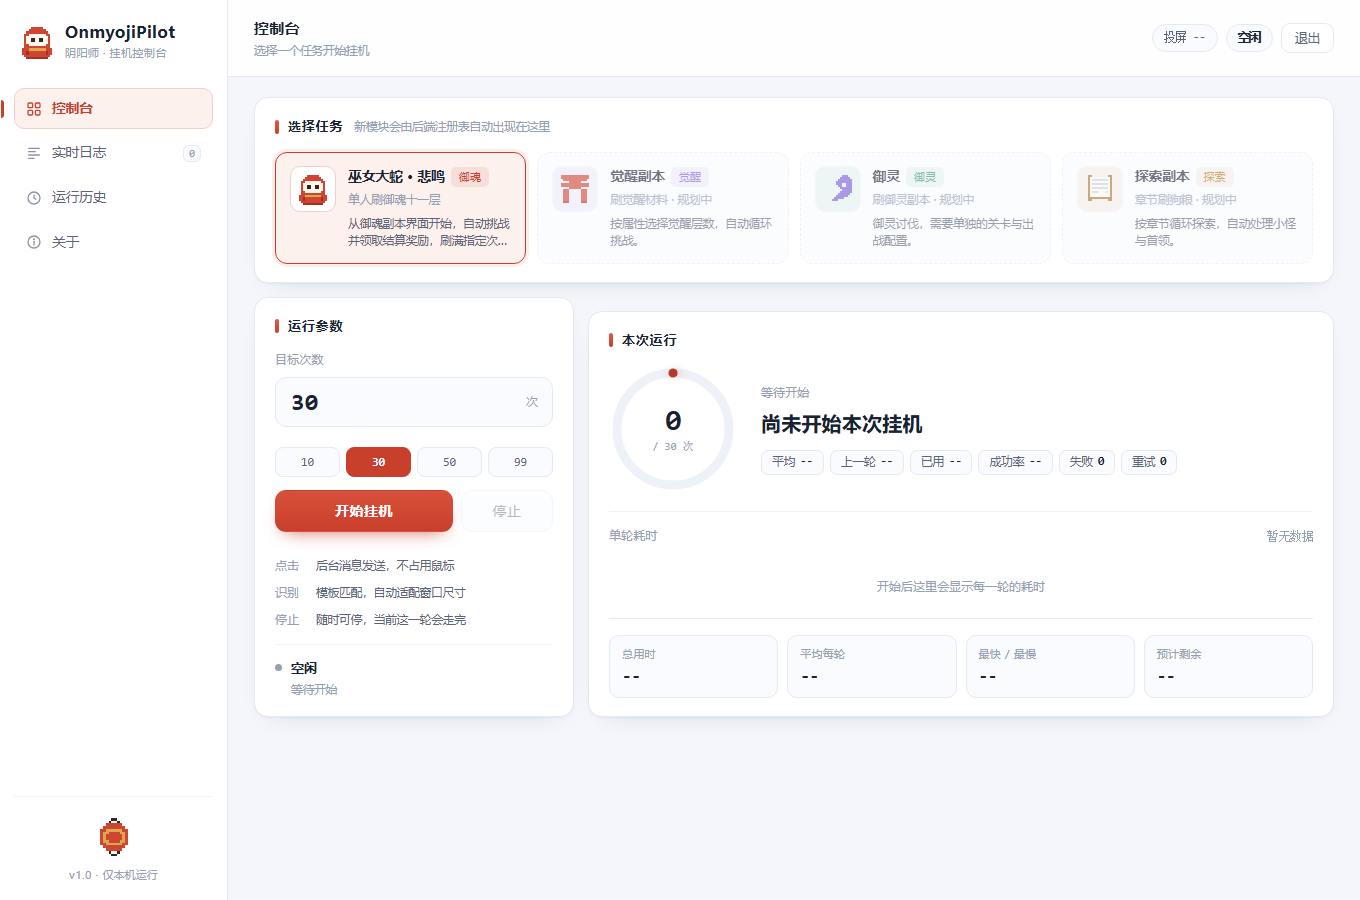
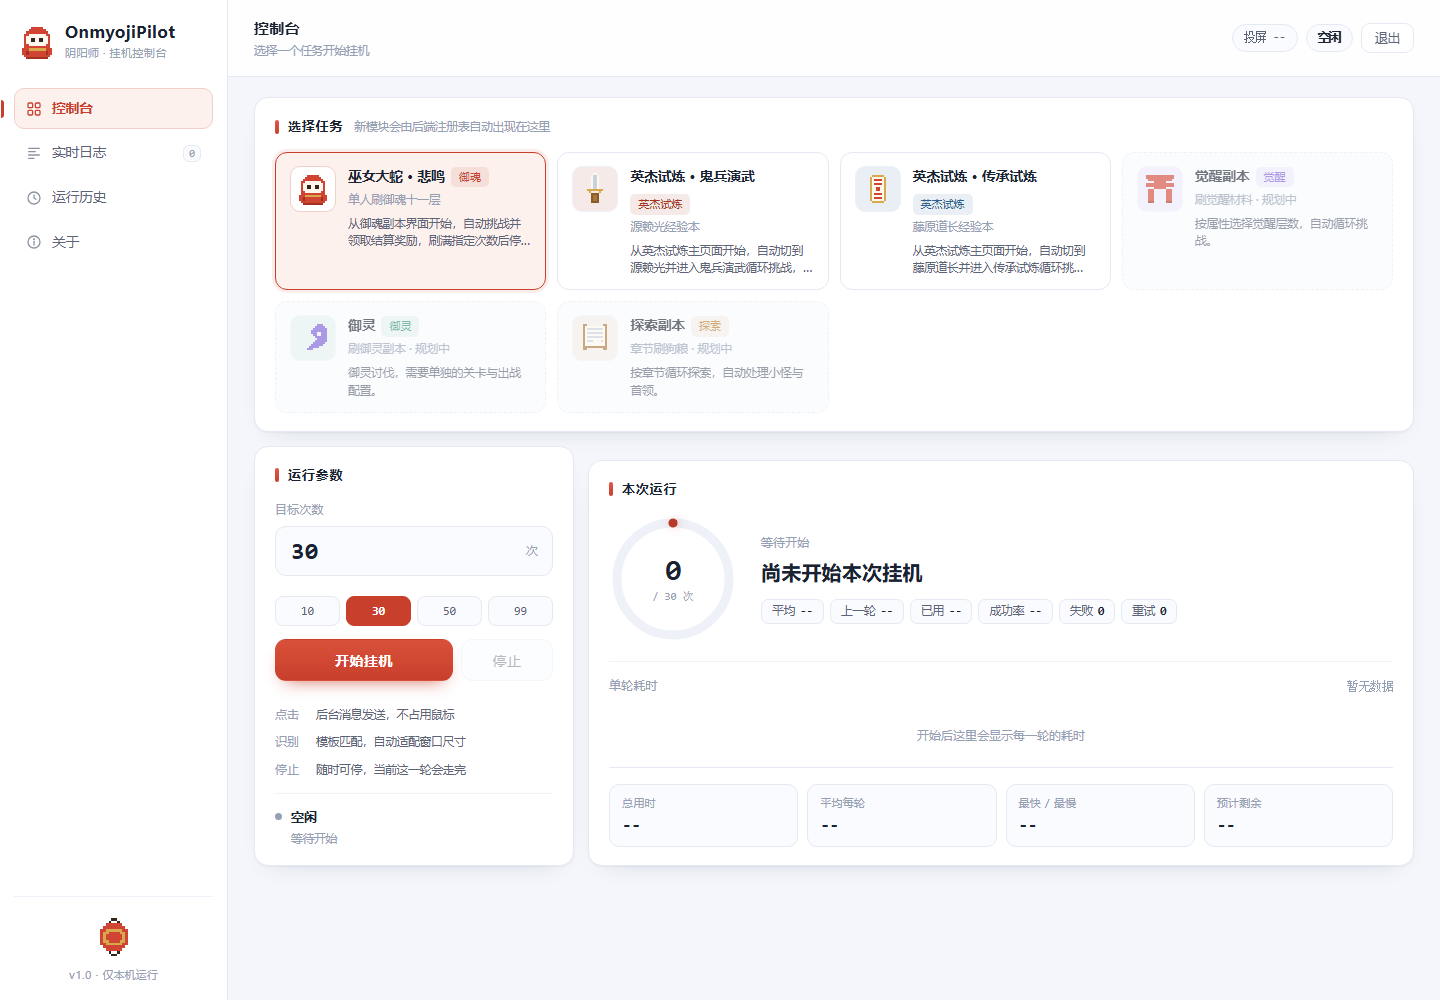
docs: README 补充传承试炼，更新控制台截图
- 已支持表：传承试炼从"规划中"改为可用，并说明会自动切英杰、开跑前查满级
- 耗时表补传承试炼约 50 秒（45.5~59.9s，5 轮），并解释为什么比鬼兵演武慢一倍：
  它是多波战斗，战斗界面左下角有 0/8 波次计数，战斗阶段本身就要 45~55 秒
- 快速开始：起始界面说明改为"在谁的英杰上都行，脚本会自己切"
- 已知限制：删掉"只支持源赖光这一侧"，补上满级拦截说明
- OAS 对照表：补 LAYERS 与 switch_hero_dict / case Layer 的对应关系
- 重新截控制台（新增传承试炼卡片，配了新的 ofuda 符咒像素图标）

diff --git a/README.md b/README.md
@@ -51,9 +51,9 @@
 | 副本 | 状态 | 说明 |
 |---|---|---|
 | 御魂 · 巫女大蛇（悲鸣） | ✅ 可用 | 单人，从御魂副本界面开始，刷满指定次数停止 |
-| 英杰试炼 · 鬼兵演武 | ✅ 可用 | 源赖光的经验本，从英杰试炼主页面自动进入 |
+| 英杰试炼 · 鬼兵演武 | ✅ 可用 | 源赖光的经验本，会自动切到源赖光并进入 |
+| 英杰试炼 · 传承试炼 | ✅ 可用 | 藤原道长的经验本，会自动切英杰，开跑前查御灵是否满级 |
 | 英杰试炼 · 兵藏秘境 | 🚧 规划中 | 需要"选祝福"逻辑，架构已就位 |
-| 英杰试炼 · 传承试炼 | 🚧 规划中 | 藤原道长的经验本，同鬼兵演武结构 |
 | 英杰试炼 · 梦虚秘境 | 🚧 规划中 | 6 种祝福按优先级选，需额外逻辑 |
 | 觉醒副本 | 🚧 规划中 | 架构已就位，缺关卡识别资产 |
 | 御灵 | 🚧 规划中 | 同上 |
@@ -66,6 +66,12 @@
 |---|---|---|
 | 御魂 · 悲鸣 | 约 27 秒（战斗 ~20s + 结算 ~7s） | — |
 | 英杰试炼 · 鬼兵演武 | 约 24 秒（23.4 ~ 25.2s） | 6 轮 |
+| 英杰试炼 · 传承试炼 | 约 50 秒（45.5 ~ 59.9s） | 5 轮 |
+
+传承试炼明显更久是因为它是**多波战斗**（战斗界面左下角有 `0/8` 波次计数），
+同样是挂一轮，它的战斗阶段就要 45~55 秒。这和脚本效率无关。
+鬼兵演武和传承试炼的「挑战」按钮实测在**同一个点位**（0.0px 偏差），
+所以两者的流程能共用一个任务类。
 
 战力更高会更快，低一些会更慢，**不要拿这些数字去衡量程序效率**。
 程序本身只负责识别和点击，不改变战斗时长。
@@ -85,14 +91,15 @@ pip install -r requirements.txt
 1. 打开 ZenLink 并连接手机，确认投屏画面正常、窗口不要最小化
 2. 游戏停在对应任务的起始界面：
    - 御魂 → **御魂副本 · 悲鸣** 界面
-   - 英杰试炼 → **英杰试炼** 主页面（脚本会自己点进鬼兵演武）
+   - 英杰试炼 → **英杰试炼** 主页面，**在谁的英杰上都行**（脚本会自己切）
 3. 双击 `start_console.bat`（或 `python server.py`），浏览器会自动打开控制台
 4. 选任务 → 填次数 → 开始挂机
 
 > 探索界面那个会漂浮的灯笼没法用后台消息点中，所以**从庭院走到探索页这一步需要手动**。
 > 停在起始界面之后，全程不用管。
 
-命令行也可以：`python main.py 30 orochi` / `python main.py 30 hero_test`
+命令行也可以：`python main.py 30 orochi` / `python main.py 30 hero_test` /
+`python main.py 30 hero_test_ccsl`
 
 ## 界面
 
@@ -185,9 +192,9 @@ OnmyojiPilot/
 │   ├── orochi/              #   御魂模块
 │   │   ├── orochi_task.py
 │   │   └── templates/       #   识别模板
-│   └── hero_test/           #   英杰试炼模块
+│   └── hero_test/           #   英杰试炼模块（鬼兵演武 / 传承试炼共用）
 │       ├── hero_test_task.py
-│       ├── task_config.py   #     模板配置（roi 注明 OAS 原值）
+│       ├── task_config.py   #     模板配置（roi 注明 OAS 原值）+ LAYERS 分层定义
 │       └── templates/
 ├── web/index.html           # 网页控制台（无外部依赖，纯原生）
 ├── config.py                # 御魂模块的模板配置、点击区域、时长表
@@ -206,7 +213,9 @@ OnmyojiPilot/
 - 投屏窗口**不能被最小化**，最小化后抓不到画面（会自动尝试还原）
 - 从庭院到探索页需要手动走一次（漂浮灯笼点不中）
 - 只做单人模式，不涉及组队、御魂溢出、体力不足检测
-- 英杰试炼目前**只支持源赖光这一侧**，不支持自动切换藤原道长
+- 英杰试炼支持鬼兵演武和传承试炼两个子玩法，会自动切换源赖光/藤原道长；
+  兵藏秘境、梦虚秘境需要"选祝福"逻辑，暂未实现
+- 传承试炼开跑前会查藤原道长的御灵是否已显示「满」，满级则拒绝启动（白刷没意义）
 - 点挑战时若弹出「当前未开启经验加成，是否继续挑战？」，脚本会自动点【开始挑战】继续。
   它**不会**替你开经验加成，也**不会**勾选「本周不再提醒」——那属于玩家设置，脚本不越权
 - 兵道帖/体力不足时不会自动补，点满重试次数后会提示你确认
@@ -227,8 +236,9 @@ OnmyojiPilot/
 | `core/base_task.py` | `tasks/base_task.py`、`module/device/device.py` | `appear` 的每目标独立 interval 定时器、`click_record`（10 次 / 6+6 判定）、`stuck_record` |
 | `core/random_utils.py` | `module/base/utils/utils.py` | `random_normal_distribution_int`、`random_rectangle_point`、`ensure_time` 的截断正态采样 |
 | `tasks/orochi/orochi_task.py` | `tasks/Orochi/script_task.py`、`tasks/Component/GeneralBattle/battle_wait.py` | 副本流程编排、`C_WIN_1/2/3` 随机区域点击、结算界面的 `reward_exclude_click`（只点空白、避开道具图标） |
-| `tasks/hero_test/hero_test_task.py` | `tasks/HeroTest/script_task.py` | 英杰试炼的流程编排、`enter_battle` 的重试上限、页面锚点判定 |
-| `tasks/hero_test/templates/*.png` | `tasks/HeroTest/as/`、`tasks/Component/GeneralBattle/gb/` | 鬼兵演武的入口/挑战/返回模板 + 通用战斗结算模板 |
+| `tasks/hero_test/hero_test_task.py` | `tasks/HeroTest/script_task.py` | 英杰试炼的流程编排、`enter_battle` 的重试上限、页面锚点判定、`check_level_max` 的满级拦截 |
+| `tasks/hero_test/task_config.py` 的 `LAYERS` | `script_task.py` 的 `switch_hero_dict` / `init_pages()` 里的 `case Layer` | 用一张表把"哪一层属于哪位英杰、入口是哪个模板、页面标志是什么"集中起来，两个子玩法共用一个任务类 |
+| `tasks/hero_test/templates/*.png` | `tasks/HeroTest/as/`、`tasks/Component/GeneralBattle/gb/` | 两个子玩法的入口/挑战/返回/英杰头像模板 + 通用战斗结算模板 |
 | `core/coord.py` | ——（本项目新增） | 把 OAS 的 1280×720 roi 换算到 878×404，让新增副本能直接复用 OAS 的坐标 |
 | `tasks/orochi/templates/*.png` | `tasks/**/assets.py` 引用的图 | **全部识别模板图**，经 `tools/import_oas_assets.py` 等比缩放导入 |
 | `tools/import_oas_assets.py` | `dev_tools/assets_extract.py` | 从 `assets.py` 解析 `RuleImage` 定义并批量导入模板的思路 |
